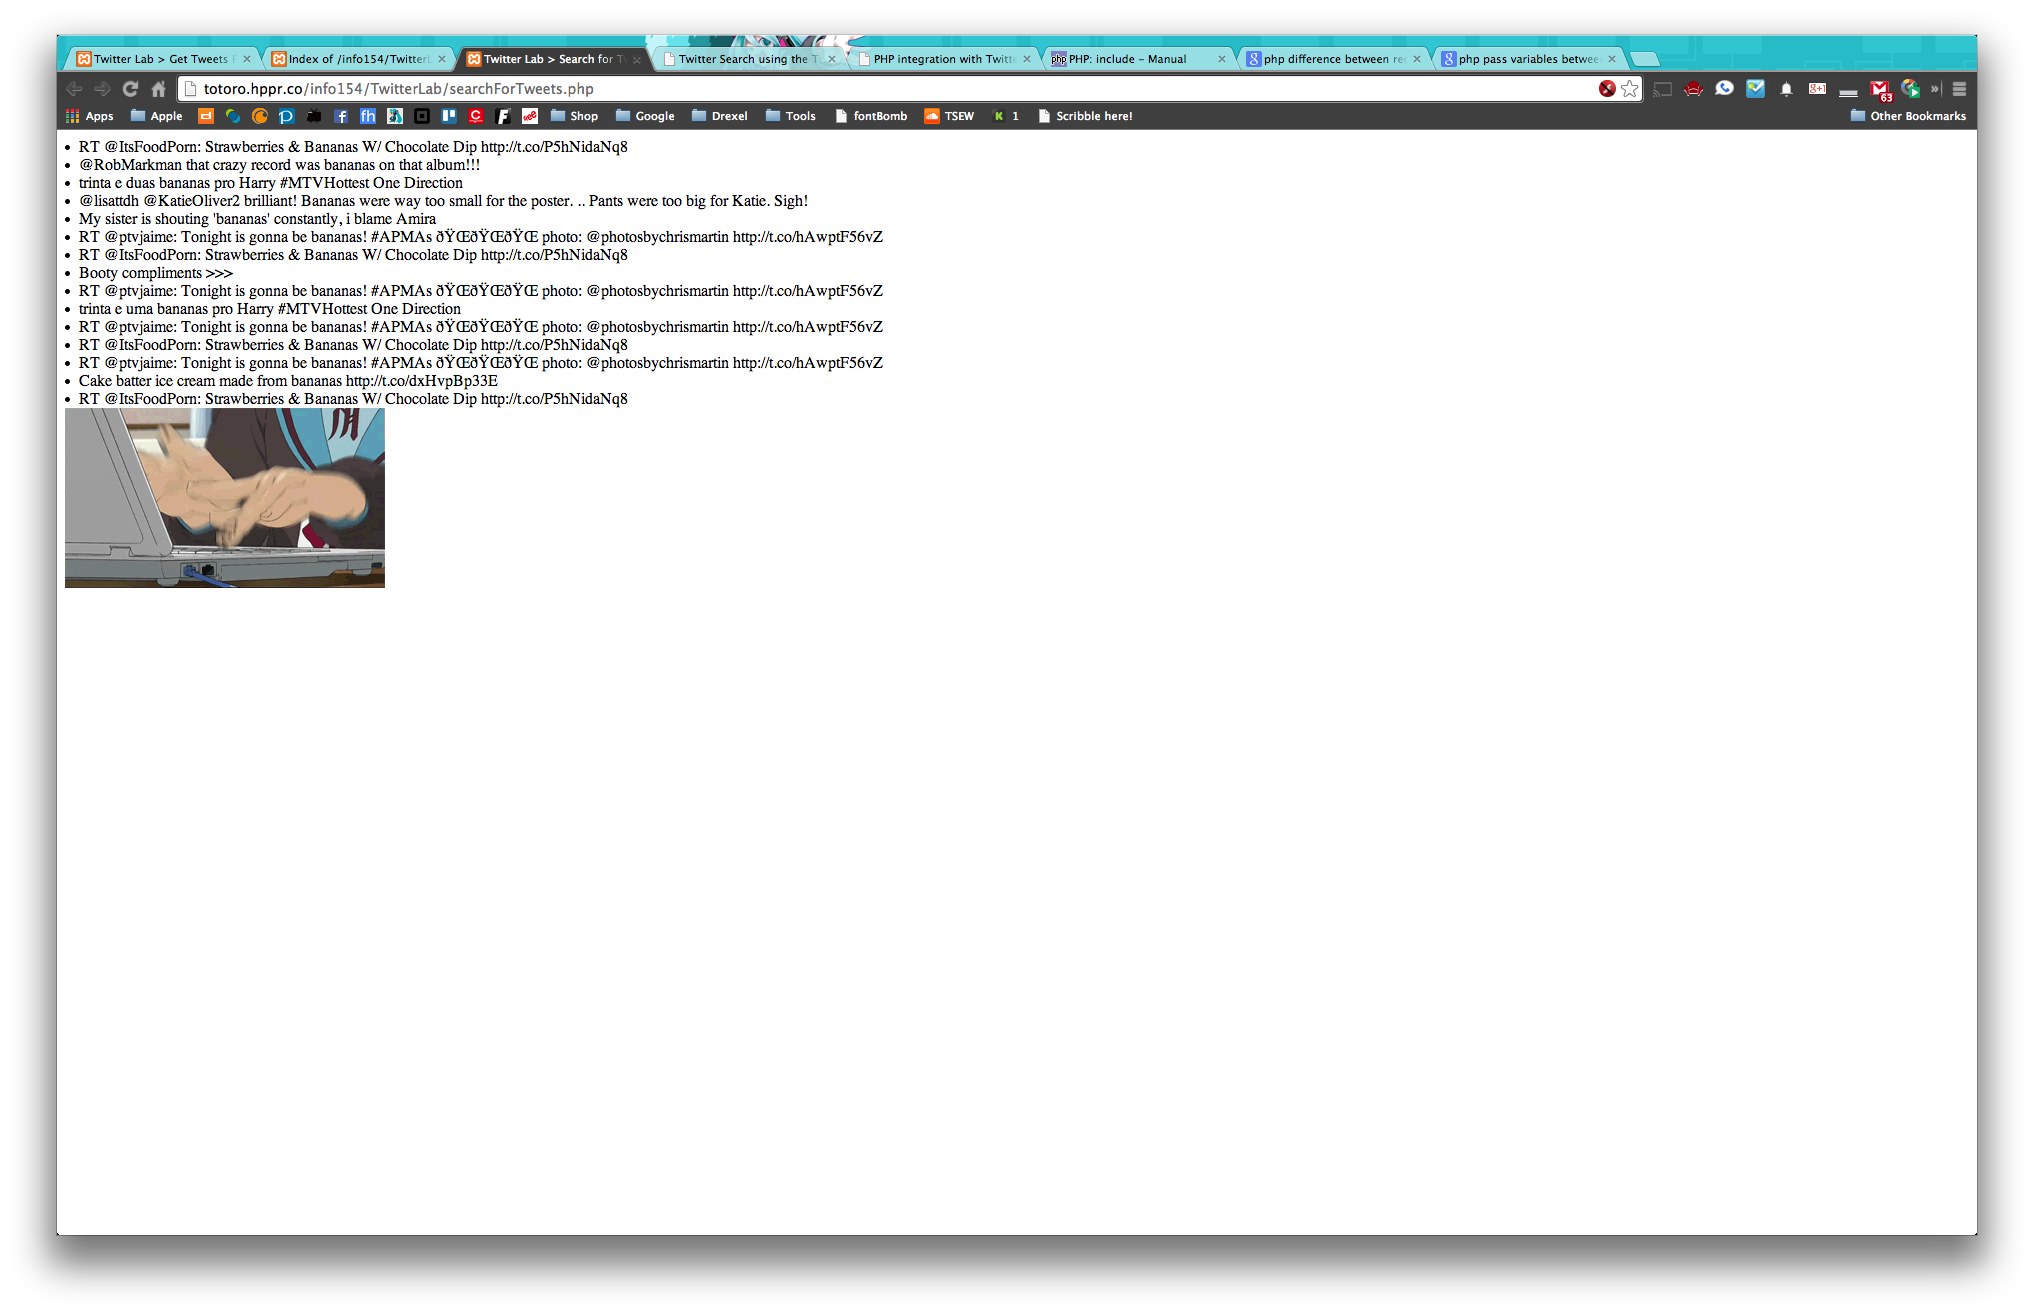
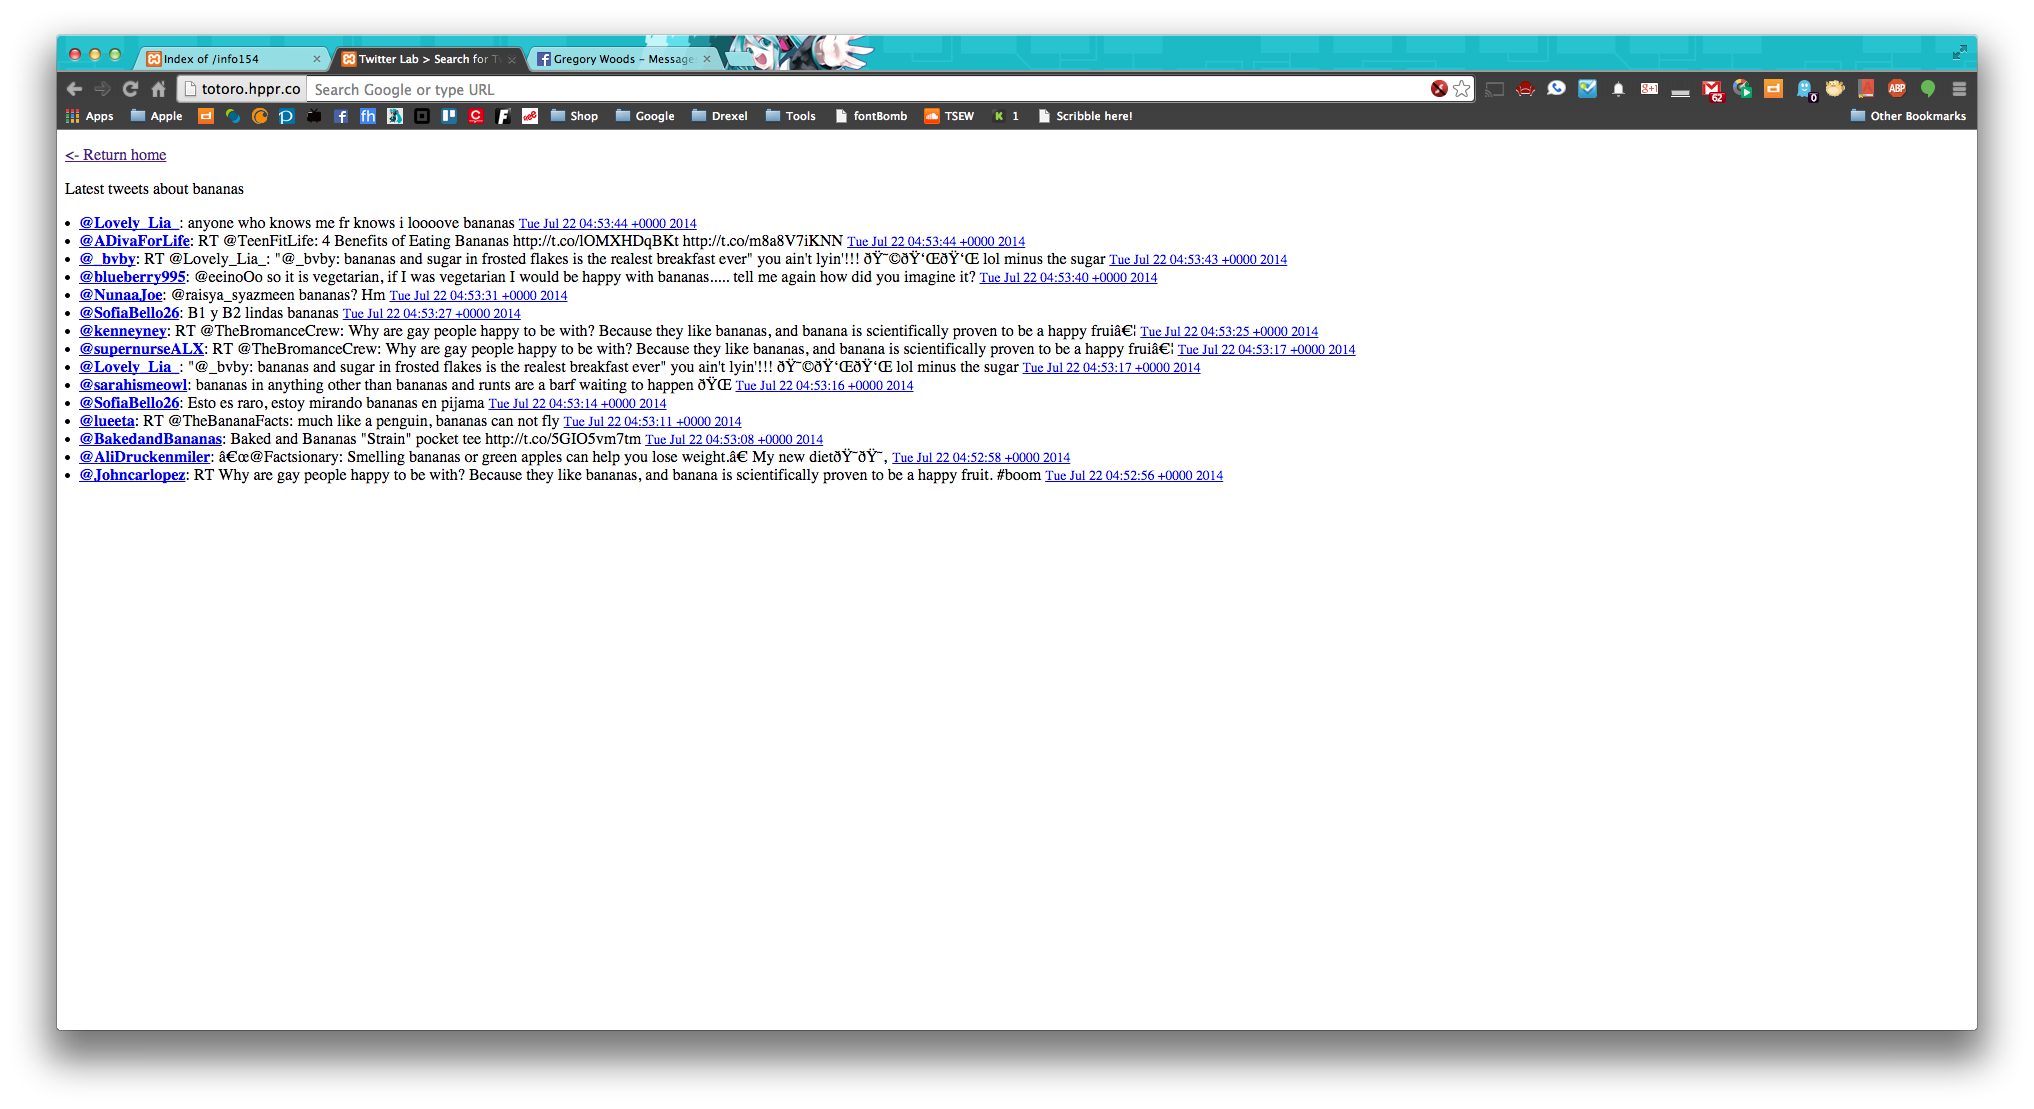
Rise To Victory
Version 1.0 (Rise To Victory): 1.0 Release

Changed region(s): [[0.031, 0.0, 0.9912, 0.4599], [0.031, 0.9197, 0.9912, 0.9811]]

diff --git a/TwitterLab/home.html b/TwitterLab/home.html
@@ -1,0 +1,21 @@
+<!DOCTYPE html>
+<html>
+<head>
+<link rel="stylesheet" type="text/css" href="main.css">
+<title>Twitter Lab > Home</title>
+</head>
+<body>
+<div class="div">
+	<form name="input">
+		<p class="search">Search Twitter</p> 
+		<input type="text" name="userString" class="input"><br>
+		<p><input type="submit" value="Search for Profile" name="Profile" method="GET" formaction="getUserTweets.php" />
+		<input type="submit" value="Search For Tweets" name="Tweet" method="GET" formaction="searchForTweets.php"/></p>
+	</form>
+	<img src="test.gif">
+	<p>Designed and engineered by Gregory Woods and <a href="http://twitter.com/francehopper">Stephen Weber</a> in Philadelphia</p>
+	<p>Powered by the Twitter API, TwitterOAuth, OS X Server, and XAMPP.</p>
+</div>
+
+</body>
+</html>

diff --git a/TwitterLab/main.css b/TwitterLab/main.css
@@ -5,10 +5,11 @@
     left:50%;
     top:50%;
     margin:-100px 0 0 -150px;
+    text-align: center;
 }
 
 .input {
-	width: 240px;
+	width: 300px;
 }
 
 .search{

diff --git a/TwitterLab/searchForTweets.php b/TwitterLab/searchForTweets.php
@@ -5,41 +5,36 @@
 </head>
 <body>
 <?php
-    require_once('oauth/twitteroauth/twitteroauth.php'); // https://github.com/abraham/twitteroauth
-    $searchString = $_GET['userString']; // hardcoded for now because it's easier. Deal with it.
+  require_once('oauth/twitteroauth/twitteroauth.php'); // https://github.com/abraham/twitteroauth
+  $searchString = $_GET['userString']; // search for the provide string
 
-    // don't be a dick by stealing my keys
-    define('CONSUMER_KEY', 'aqEWrdsZtvnWskYXZe0Ui1dAs');
-    define('CONSUMER_SECRET', 'VCtIhC9mUrAOlljEIhPJ98msypf5WgNofTxt0F7COFYohUiFZt');
-    define('ACCESS_TOKEN', '16427456-US1fjrhTqtBu3gj6Yg4H3u7gSYLFKVPxX0SVherWg');
-    define('ACCESS_TOKEN_SECRET', 'F72MrewmUhSlU9SkWY1dzEkkiB7sl47KrRDX4PMk91DhO');
+  // don't be a dick by stealing my keys
+  define('CONSUMER_KEY', 'aqEWrdsZtvnWskYXZe0Ui1dAs');
+  define('CONSUMER_SECRET', 'VCtIhC9mUrAOlljEIhPJ98msypf5WgNofTxt0F7COFYohUiFZt');
+  define('ACCESS_TOKEN', '16427456-US1fjrhTqtBu3gj6Yg4H3u7gSYLFKVPxX0SVherWg');
+  define('ACCESS_TOKEN_SECRET', 'F72MrewmUhSlU9SkWY1dzEkkiB7sl47KrRDX4PMk91DhO');
 
-    function runSearch(array $query)
-    {
-      $conectionToTwitter = new TwitterOAuth(CONSUMER_KEY, CONSUMER_SECRET, ACCESS_TOKEN, ACCESS_TOKEN_SECRET); // connect to Twitter API
-      return $conectionToTwitter->get('search/tweets', $query); // run our search query
+  function runSearch(array $query) {
+    $conectionToTwitter = new TwitterOAuth(CONSUMER_KEY, CONSUMER_SECRET, ACCESS_TOKEN, ACCESS_TOKEN_SECRET); // connect to Twitter API
+    return $conectionToTwitter->get('search/tweets', $query); // run our search query
   }
 
-      $query = array(
-      "q" => "$searchString", // build the search query
-      );
+  $query = array (
+    "q" => "$searchString", // build the search query
+  );
 
-    echo "<p>Latest tweets about " . $searchString . "</p>";
-    $tweets = runSearch($query); // fetch tweets from our search
+  echo "<p><a href=\"home.html\"><- Return home</a></p>";
+  echo "<p>Latest tweets about " . $searchString . "</p>";
+  $tweets = runSearch($query); // fetch tweets from our searchs
 
-
-    foreach ($tweets->statuses as $line) { // step through each returned tweet
-        $status = $line->text; // strip the Tweet from the JSON
-        // $tweetTime =  $line->created_at; // strip creation time from the JSON
-        // $tweetId = $line->id_str; // strip the tweet ID so we can link back to the source tweet
-        $outputTweet = '<li>'.$status.'</span>'; // to be rebuilt. Maybe.
-         // <a style="font-size:85%" href="http://twitter.com/'.$userName.'/statuses/'.$tweetId.'">'. $tweetTime .'</a></li>'; // Render our beautiful new tweet
-        echo $outputTweet; // echo the tweet
-    }
-
-    // DEBUG
-    // echo '<p>Anything below this line is for debug purposes. Nothing to see here.</p><br />';
-    // echo '<br /><img src="test.gif">'; // if this line returns an image, PHP is writing properly AND permisions are OK. Probabaly.
+  foreach ($tweets->statuses as $line) { // step through each returned tweet
+      $status = $line->text; // strip the Tweet from the JSON
+      $handle = $line->user->screen_name; // get the Twitter handle of the person that sent the tweet
+      $tweetTime =  $line->created_at; // strip creation time from the JSON
+      $tweetId = $line->id_str; // strip the tweet ID so we can link back to the source tweet
+      $outputTweet = '<li><strong><a href="http://twitter.com/' . $handle .'">@' . $handle . "</a></strong>: " . $status .'</span> <a style="font-size:85%" href="http://twitter.com/'.$handle.'/statuses/'.$tweetId.'">'. $tweetTime .'</a></li>'; // Render our beautiful new tweet
+      echo $outputTweet; // echo the tweet
+  }
 ?>
 </body>
 </html>

diff --git a/TwitterLab/getUserTweets.php b/TwitterLab/getUserTweets.php
@@ -76,8 +76,9 @@
 //     $foundUser = find_users($users);
 //     var_dump($foundUser);
     
-    echo "<p>Tweets by " . $userName . "</p>";
-    echo "<p>Note: If you see the message 'Notice: Trying to get property of non-object in...' you are probabaly looking for a user that doesn't exist. Please try again.</p>";
+    echo "<p><a href=\"home.html\"><- Return home</a></p>";
+    echo "<p>Tweets by <a href=\"http://twitter.com/".$userName."\">@" . $userName . "</a></p>";
+    echo "<p><strong>Note:</strong> If you see the message 'Notice: Trying to get property of non-object in...' you are probably looking for a user that doesn't exist. Please try again.</p>";
     $tweets = getTweets($userName); // call the function to fetch user tweets
     foreach ($tweets as $line) { // step through each returned tweet
         $status = $line->text; // strip the Tweet from the JSON

diff --git a/TwitterLab/banana.php b/TwitterLab/banana.php
@@ -2,7 +2,7 @@
 <?php
 function get_bananas() {
     $i; //declare $i variable
-        echo "<pre>
+    echo "<pre>
 //\
 V  \
  \  \_
@@ -16,6 +16,7 @@ V  \
           `-_ `-.___        __,--'   ,'
              `-.__  `----\"\"\" __.-'
 hh                `--..____..--' <pre> ";
+
 
 }
 
